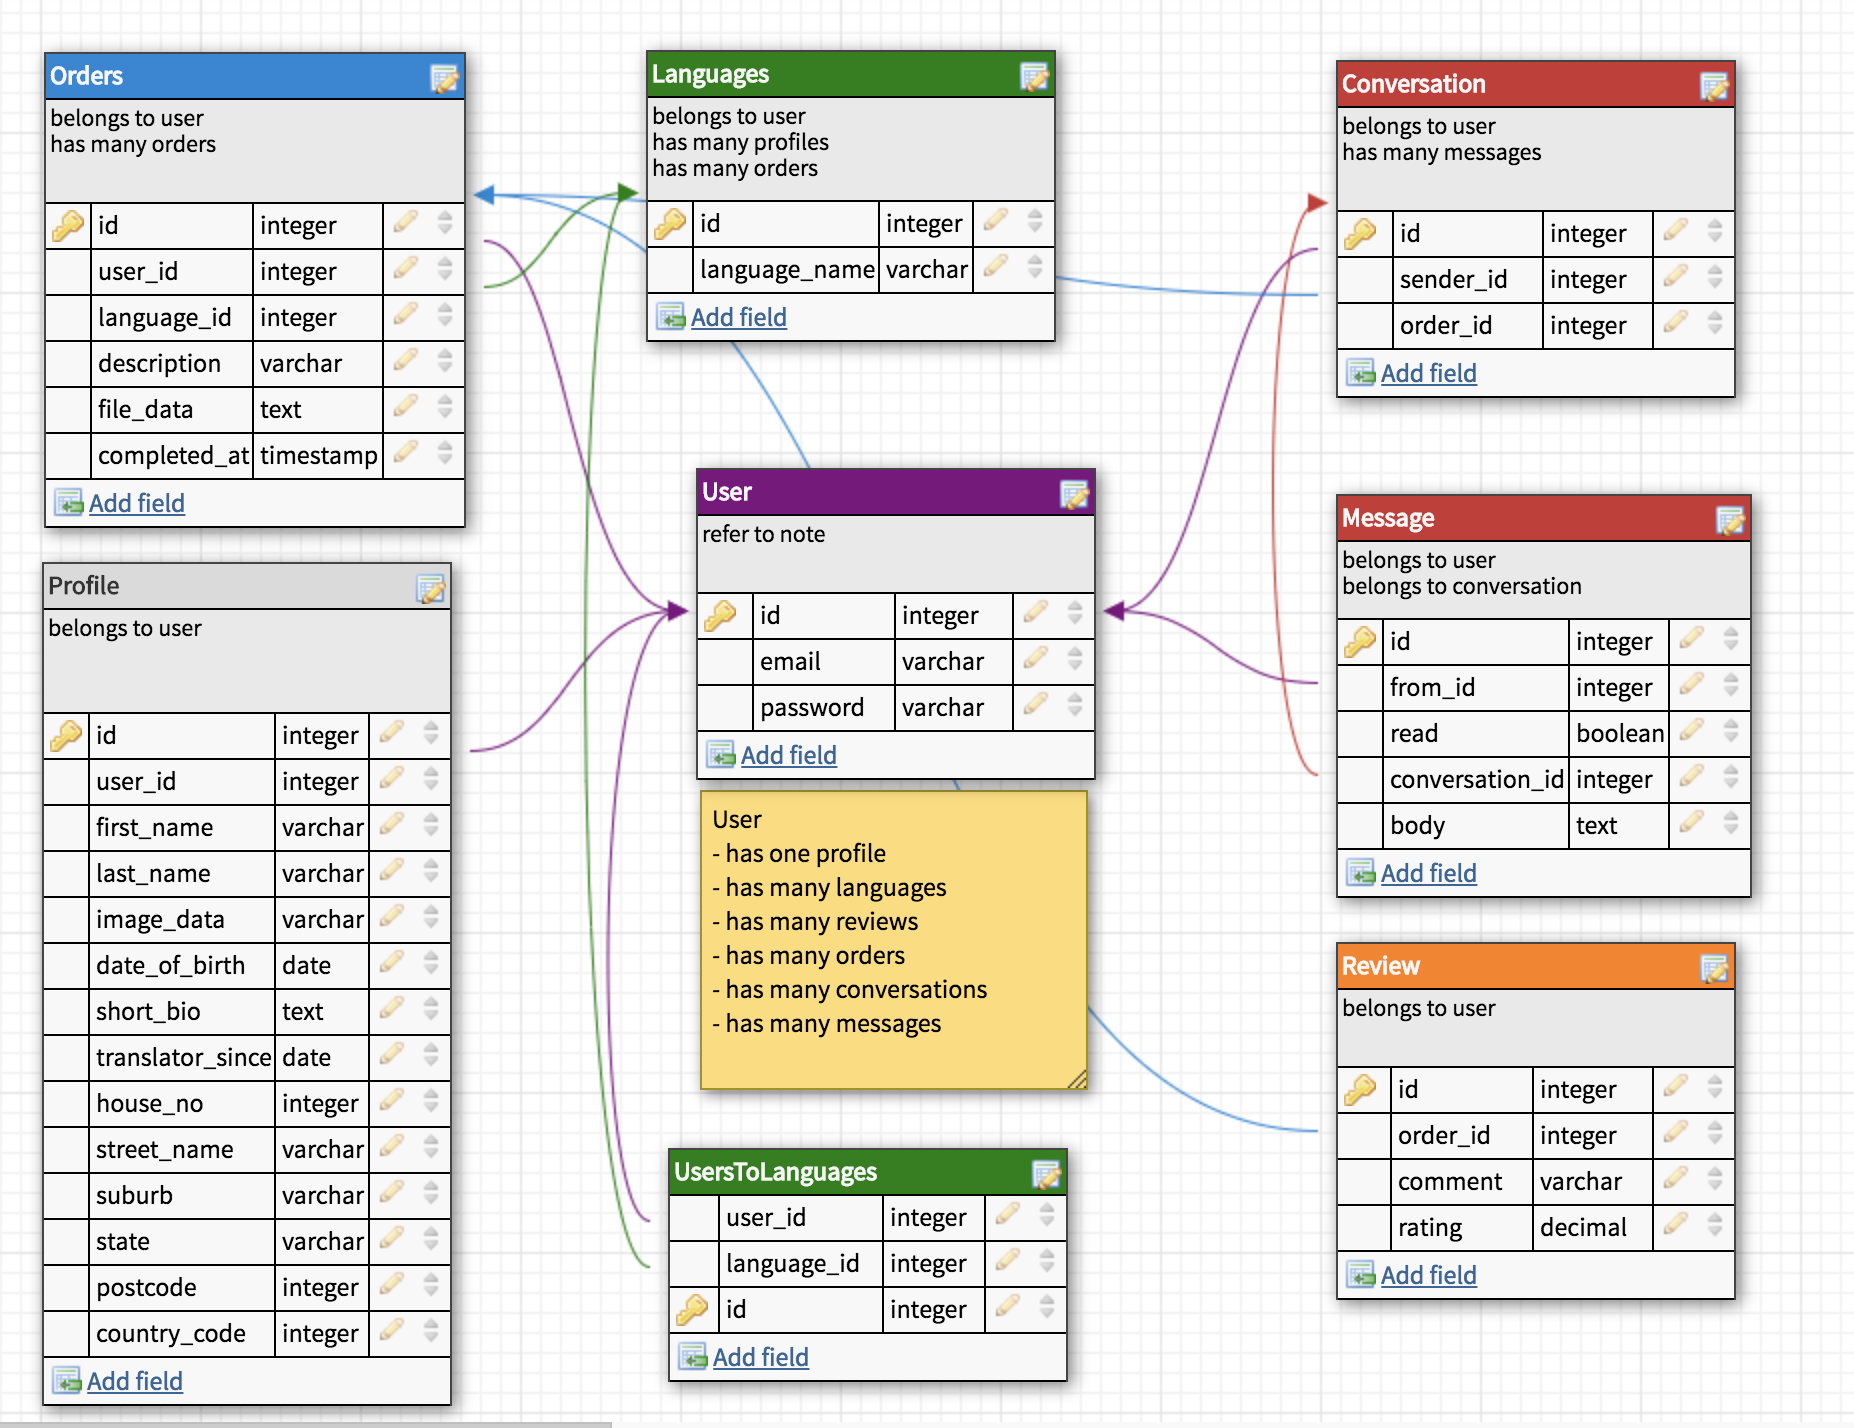
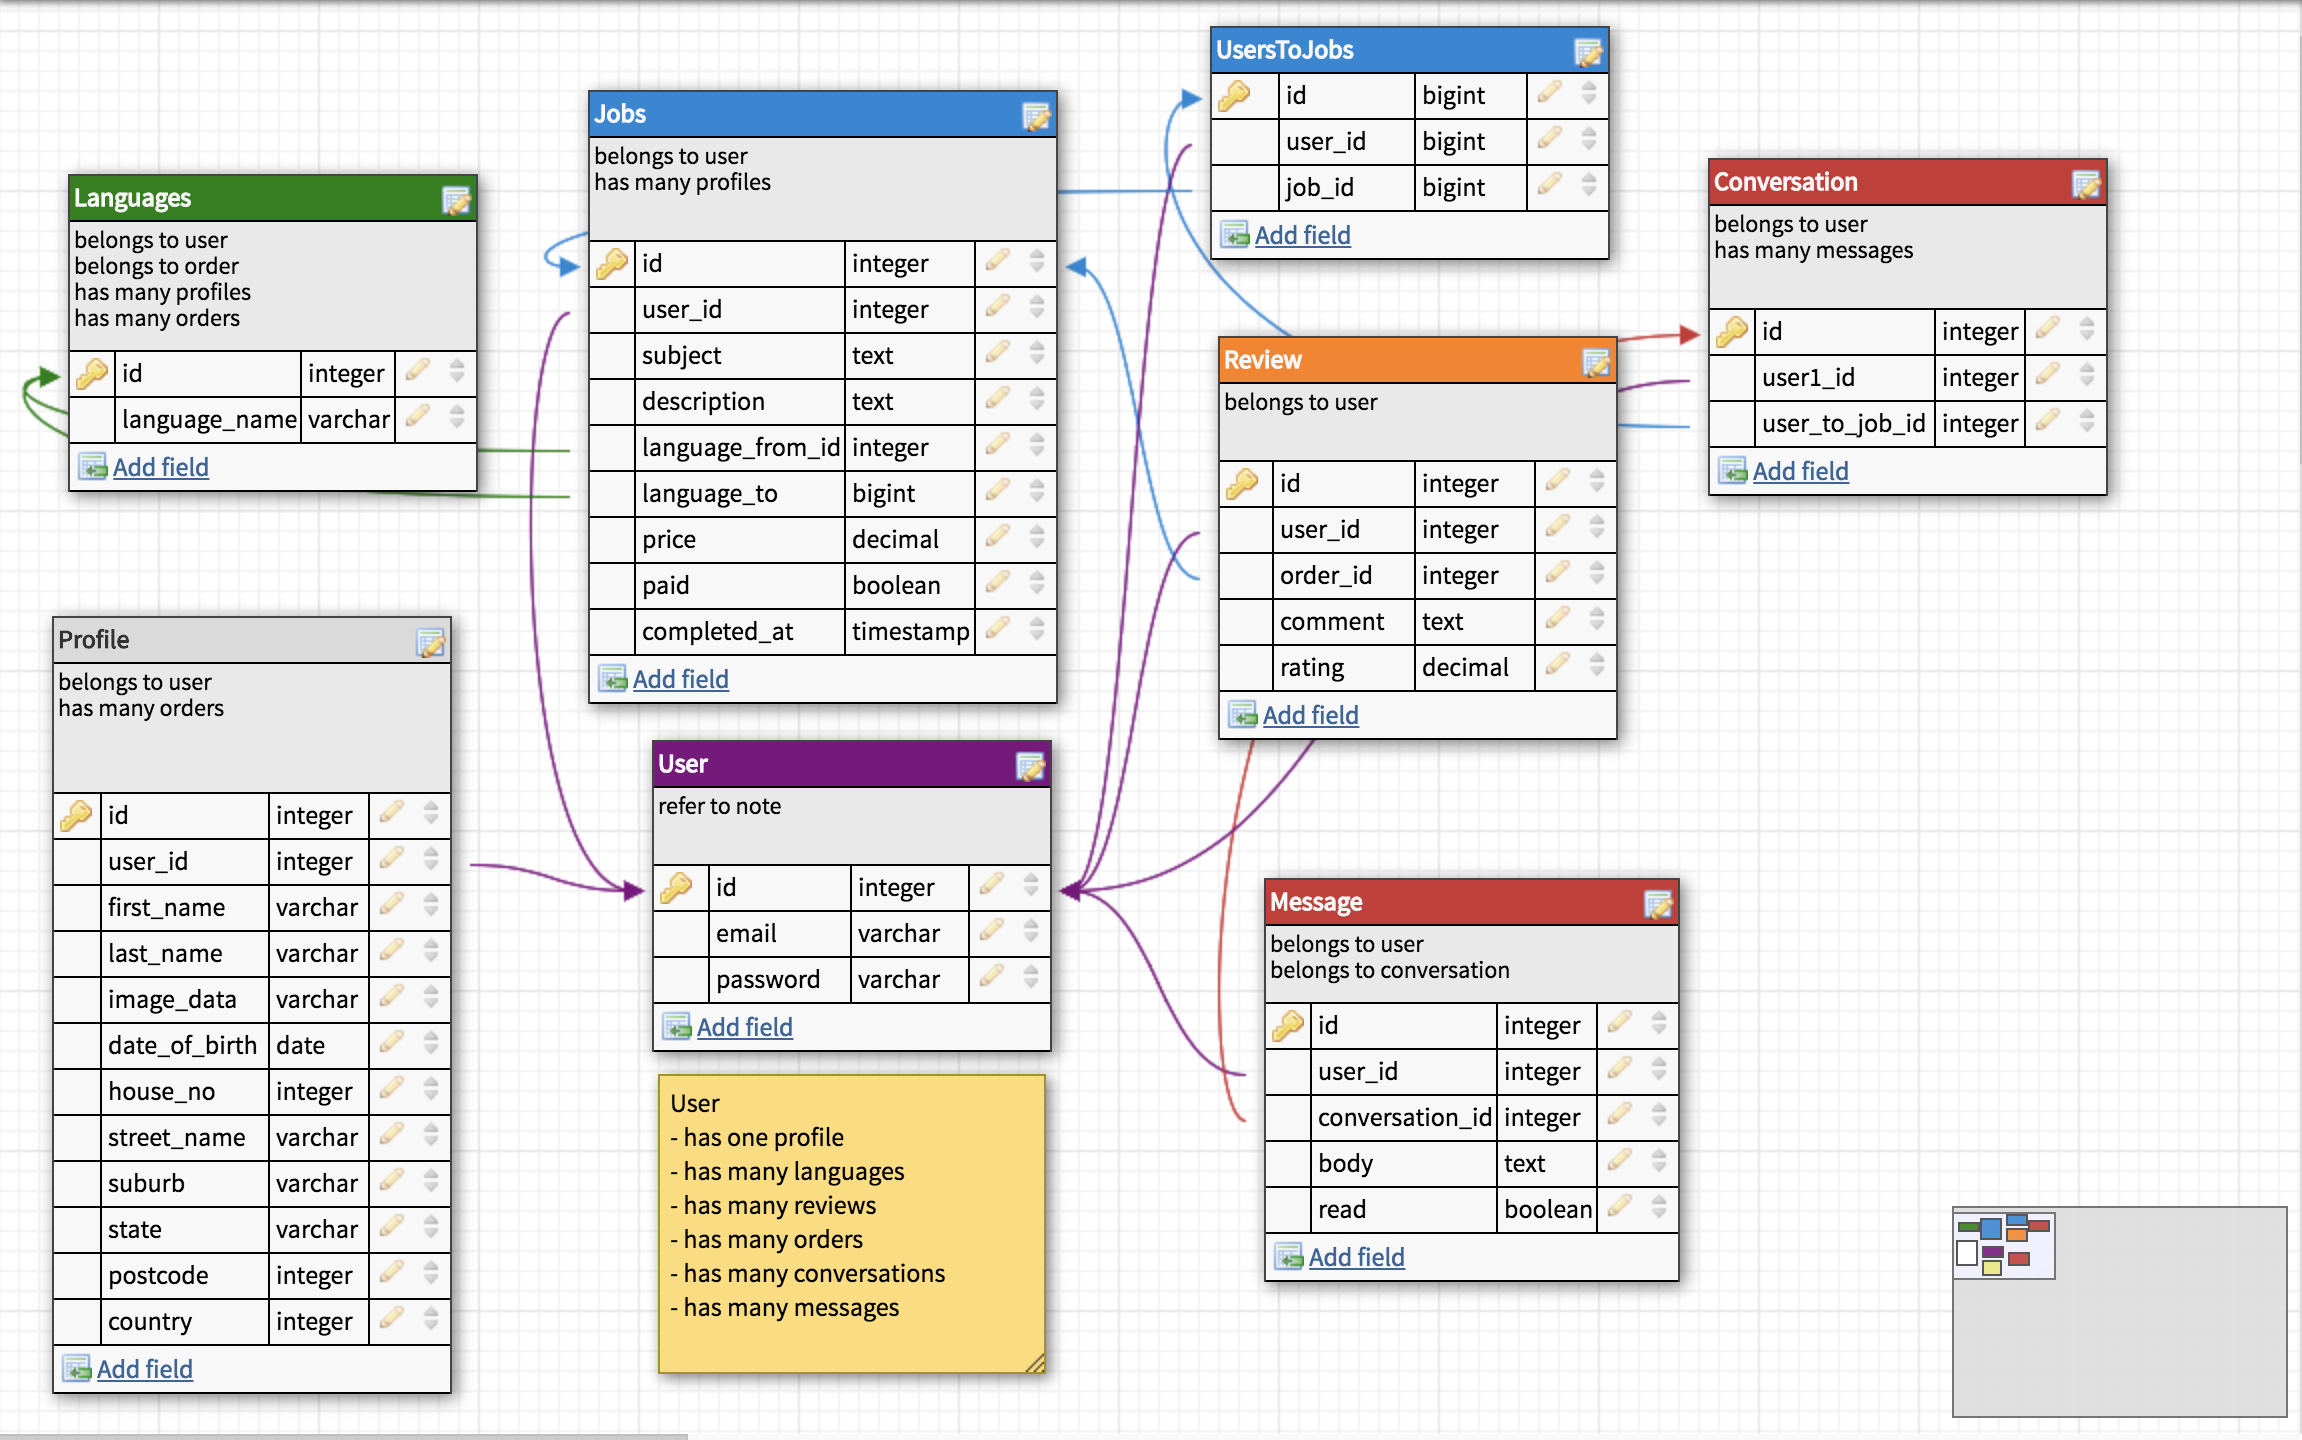
Add Readme file to folder directory

diff --git a/README.md b/README.md
@@ -19,18 +19,16 @@ Website:
 - **[ERD](#ERD)**
 - **[Workflow](#Workflow)**
 - **[Models](#Models)**
-- **[Controllers](#Controllers)**
 - **[Mood Board](#Mood_board)**
 - **[Colour Schemes](#Colour_schemes)**
 - **[Fonts](#Fonts)**
 - **[Wireframes](#Wireframes)**
     - [Mobile](#Mobile)
     - [Desktop](#Desktop)
-- **[Ruby Gems & Api's Used](#Ruby_Gems_&_Api's_Used)**
+- **[Ruby Gems and Api's Used](#Ruby_Gems_and_Api's_Used)**
     - [Gems](#Gems)
     - [Api's](#Api's)
-- **[Problems](#Problems)**
-- **[Solutions](#Solutions)**
+- **[Problems & Solutions](#Problems_and_Solutions)**
 - **[Final Review](#Final_review)**
 
 ## **The Design Process**
@@ -78,6 +76,8 @@ Current language exchange services:
 ***
 **[Trello Board - Hola! Aloha! Marketplace](https://trello.com/b/zh6GFXyq/hola-aloha-marketplace#)**
 
+>![Workflow](readmeimages/trello.png)
+
 >### **USER STORIES**
 
 My Users consist of two profiles - Customers and Interpreters. Users can sign-up, but will need to create a profile before initializing an order through the application. Customers and Interpreters will be able to communicate via an instant message notification system to ensure speedy response times by both users. Both Customers and Interpreters can send a request for an order; thus eliminating the need to create multiple profiles.
@@ -116,34 +116,32 @@ I developed a workflow document to provide a visual representation of how my web
 
 ```
 User
-- email :varchar
-- password :varchar
+- email :string
+- password :string
 
 Profile 
-- first_name :varchar
-- last_name :varchar
-- image_data :varchar
+- first_name :string
+- last_name :string
+- image_data :text
 - date_of_birth :date
-- short_bio :text
-- translator_since :date
-- house_no :integer
-- street_name :varchar
-- suburb :varchar
-- state :varchar
-- postcode :integer
-- country_code :integer
+- house_no :string
+- street_name :string
+- suburb :string
+- state :string
+- postcode :string
+- country :string
 
 Languages
-- language_name :varchar
+- en :string
 
-UsersToLanguages
-
-Orders
-- description :varchar
+Jobs
+- subject: text
+- description :text
 - file_data :text
-- completed_at :timestamp
-
-Invoices
+- price :integer
+- paid_at :datetime
+- stripe_charge_id :string
+- completed_at :string
 
 Conversations
 - sender_id :integer
@@ -158,10 +156,6 @@ Review
 - rating :decimal
 
 ```
-
-## **Controllers**
-***
-
 
 ## **Mood Board**
 ***
@@ -191,7 +185,7 @@ Review
 
 ![Desktop](readmeimages/desktop.png)
 
-## **Ruby Gems & Api's Used**
+## **Ruby Gems and Api's Used**
 ***
 
 >### **Gems**
@@ -204,17 +198,22 @@ Review
 - **Shrine** (File Attachment)
 - **Mailgun** (Transactional Emails
 - **Faker** (Generates fake data)
+- **Language Lists** (Generates Languages)
+- **PG** (Postgres)
 
 >### **API's**
 
 - **Stripe** (Payments)
 - **Mailgun** (Transactional Emails)
 
-## **Problems**
+## **Problems and Solutions**
 ***
 
-## **Solutions**
-***
+> ## _"Where do I start???!!!"_
+
+![Whymeme](readmeimages/whymeme.png)
+
+
 
 ## **Final Review**
 ***
